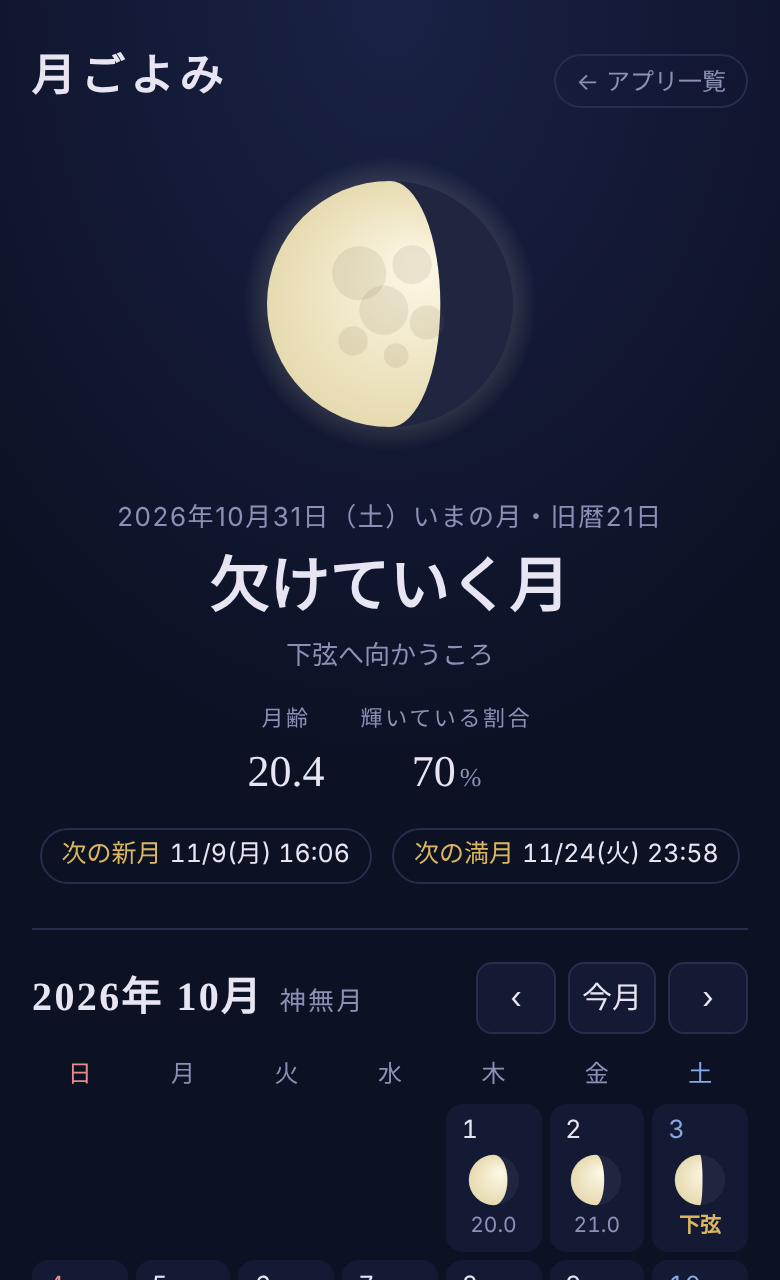
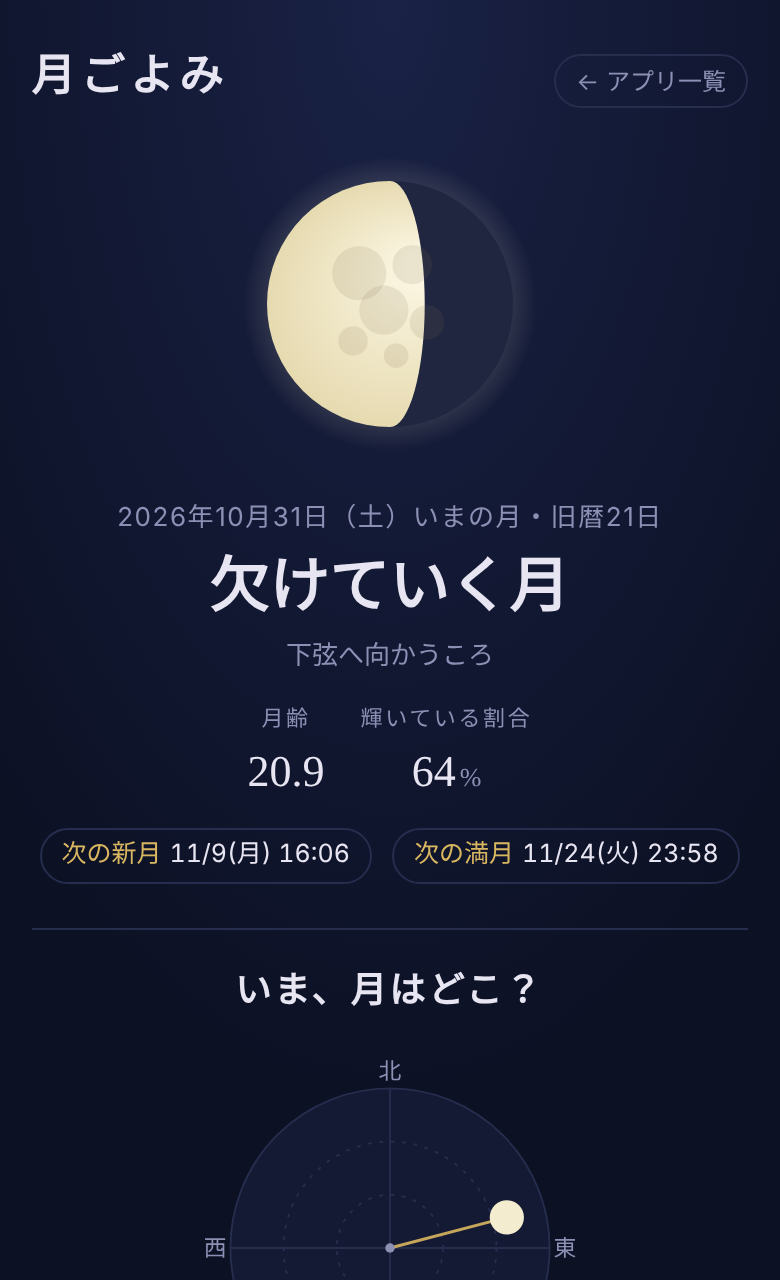
月ごよみ：いまの月の方角・高さと月の出・月の入りを追加
Claude-Session: https://claude.ai/code/session_016FBJxfb2vpesPzRLycQGm6

diff --git a/tsuki-goyomi/index.html b/tsuki-goyomi/index.html
@@ -79,6 +79,24 @@ h1{font-family:var(--display);font-weight:700;font-size:22px;letter-spacing:.12e
 .cell.sel{background:#232b52}
 @media (min-width:560px){.cell canvas{width:40px;height:40px}.cell .d{font-size:13.5px}.cell .age,.cell .ev{font-size:11.5px}}
 .note{font-size:12px;color:var(--mute);line-height:1.7}
+
+/* いまの月の方角 */
+.sky{border-top:1px solid var(--line);padding-top:16px;display:grid;grid-template-columns:auto 1fr;gap:20px;align-items:center}
+.sky h2{grid-column:1/-1;font-family:var(--display);font-size:18px;letter-spacing:.08em;margin:0}
+.sky svg{width:190px;height:190px;display:block}
+.sky .txt{display:flex;flex-direction:column;gap:6px;min-width:0}
+.sky .dir{font-family:var(--display);font-size:28px;font-weight:700;line-height:1.25}
+.sky .sub{font-size:13px;color:var(--mute)}
+.rs{display:flex;gap:8px;flex-wrap:wrap}
+.place{display:flex;gap:8px;align-items:center;flex-wrap:wrap;margin-top:4px}
+.place select,.place button{background:var(--sky-2);color:var(--ink);border:1px solid var(--line);border-radius:8px;height:34px;font:inherit;font-size:13px;padding:0 10px;cursor:pointer}
+.place select:focus-visible,.place button:focus-visible{outline:2px solid var(--gold);outline-offset:2px}
+.place .msg{font-size:11.5px;color:var(--mute);flex-basis:100%}
+@media (max-width:480px){
+  .sky{grid-template-columns:1fr;justify-items:center;text-align:center}
+  .sky .txt{align-items:center}
+  .rs,.place{justify-content:center}
+}
 .home{font-size:12px;color:var(--mute);text-decoration:none;border:1px solid var(--line);border-radius:999px;padding:3px 10px}
 </style>
 </head><body>
@@ -104,6 +122,21 @@ h1{font-family:var(--display);font-weight:700;font-size:22px;letter-spacing:.12e
     </div>
   </section>
 
+  <section class="sky" aria-live="polite">
+    <h2>いま、月はどこ？</h2>
+    <svg id="compass" viewBox="0 0 200 200" role="img" aria-label="月の方角と高さ"></svg>
+    <div class="txt">
+      <div class="dir" id="sDir"></div>
+      <div class="sub" id="sSub"></div>
+      <div class="rs" id="sRS"></div>
+      <div class="place">
+        <select id="city" aria-label="見る場所"></select>
+        <button id="geo">現在地を使う</button>
+        <span class="msg" id="geoMsg"></span>
+      </div>
+    </div>
+  </section>
+
   <section class="cal">
     <div class="calhead">
       <div class="month" id="mLabel"></div>
@@ -114,7 +147,7 @@ h1{font-family:var(--display);font-weight:700;font-size:22px;letter-spacing:.12e
       </div>
     </div>
     <div class="grid" id="grid"></div>
-    <p class="note">日本時間で計算しています。月齢は正午の値です。新月・上弦・満月・下弦はその瞬間をむかえる日に印をつけています。計算はこの端末の中で行っていて、時刻は数分程度ずれることがあります。</p>
+    <p class="note">日本時間で計算しています。月齢は正午の値です。新月・上弦・満月・下弦はその瞬間をむかえる日に印をつけています。月の方角・高さ・月の出入りは、選んだ場所から見た値です。計算はこの端末の中で行っていて、時刻は数分程度ずれることがあります。</p>
   </section>
 </div>
 
@@ -145,6 +178,55 @@ function refine(t,target){for(let i=0;i<8;i++){t-=sgn(elong(t)-target)/12.19*DAY
 function lastNew(ms){let t=refine(ms-elong(ms)/12.19*DAY,0);if(t>ms)t=refine(t-SYN*DAY,0);return t}
 function nextPhase(ms,target){let t=refine(ms+n360(target-elong(ms))/12.19*DAY,target);if(t<=ms)t=refine(t+SYN*DAY,target);return t}
 const illum=E=>(1-Math.cos(E*R))/2;
+
+// ---- 月の方角と高さ（見ている場所から） ----
+const CITIES=[["札幌",43.06,141.35],["仙台",38.27,140.87],["東京",35.68,139.77],["名古屋",35.18,136.91],["大阪",34.69,135.50],["広島",34.39,132.46],["福岡",33.59,130.40],["那覇",26.21,127.68]];
+const DIR16=["北","北北東","北東","東北東","東","東南東","南東","南南東","南","南南西","南西","西南西","西","西北西","北西","北北西"];
+const dirName=az=>DIR16[Math.round(n360(az)/22.5)%16];
+function moonEq(ms){
+  const JD=ms/DAY+2440587.5, T=(JD-2451545)/36525;
+  const M=357.5291092+35999.0502909*T, Lp=218.3164477+481267.88123421*T, D=297.8501921+445267.1114034*T,
+        Mp=134.9633964+477198.8675055*T, F=93.2720950+483202.0175233*T;
+  const s=x=>Math.sin(x*R), c=x=>Math.cos(x*R);
+  const lon=Lp+6.288774*s(Mp)+1.274027*s(2*D-Mp)+0.658314*s(2*D)+0.213618*s(2*Mp)
+    -0.185116*s(M)-0.114332*s(2*F)+0.058793*s(2*D-2*Mp)+0.057066*s(2*D-M-Mp)
+    +0.053322*s(2*D+Mp)+0.045758*s(2*D-M)-0.040923*s(M-Mp)-0.034720*s(D)-0.030383*s(M+Mp)
+    +0.015327*s(2*D-2*F)+0.010980*s(Mp-2*F)+0.010675*s(4*D-Mp)+0.010034*s(3*Mp);
+  const lat=5.128122*s(F)+0.280602*s(Mp+F)+0.277693*s(Mp-F)+0.173237*s(2*D-F)+0.055413*s(2*D-Mp+F)
+    +0.046271*s(2*D-Mp-F)+0.032573*s(2*D+F)+0.017198*s(2*Mp+F)+0.009266*s(2*D+Mp-F)+0.008822*s(2*Mp-F);
+  const dist=385000.56-20905.355*c(Mp)-3699.111*c(2*D-Mp)-2955.968*c(2*D)-569.925*c(2*Mp);
+  const eps=23.439291-0.0130042*T;
+  return{
+    ra:Math.atan2(s(lon)*c(eps)-Math.tan(lat*R)*s(eps),c(lon)),
+    dec:Math.asin(s(lat)*c(eps)+c(lat)*s(eps)*s(lon)),
+    gmst:n360(280.46061837+360.98564736629*(JD-2451545)+0.000387933*T*T),
+    par:Math.asin(6378.14/dist)/R
+  };
+}
+// alt: 見かけの高さ（視差と大気の屈折を補正）, az: 北=0 東=90 南=180 西=270
+function moonAltAz(ms,la,lo){
+  const q=moonEq(ms), H=(q.gmst+lo)*R-q.ra, f=la*R;
+  const geo=Math.asin(Math.sin(f)*Math.sin(q.dec)+Math.cos(f)*Math.cos(q.dec)*Math.cos(H))/R;
+  const az=n360(Math.atan2(Math.sin(H),Math.cos(H)*Math.sin(f)-Math.tan(q.dec)*Math.cos(f))/R+180);
+  let alt=geo-q.par*Math.cos(geo*R);
+  if(alt>-1) alt+=1.02/Math.tan((alt+10.3/(alt+5.11))*R)/60;
+  return{alt,az,geo,h0:0.7275*q.par-0.5667};
+}
+// その日（日本時間0時〜24時）の月の出・月の入り
+function riseSet(y,m,d,la,lo){
+  const s=jstMid(y,m,d), step=10*60e3, f=t=>{const p=moonAltAz(t,la,lo);return p.geo-p.h0};
+  let out={rise:null,set:null}, t0=s, v0=f(t0);
+  for(let t1=s+step;t1<=s+DAY;t1+=step){
+    const v1=f(t1);
+    if((v0<0)!==(v1<0)){
+      let a=t0,b=t1,va=v0;
+      for(let i=0;i<20;i++){const mid=(a+b)/2,vm=f(mid);if((va<0)===(vm<0)){a=mid;va=vm}else b=mid}
+      if(v0<0&&out.rise===null)out.rise=a; else if(v0>=0&&out.set===null)out.set=a;
+    }
+    t0=t1;v0=v1;
+  }
+  return out;
+}
 
 const EV={0:"新月",90:"上弦",180:"満月",270:"下弦"};
 const YOMI={新月:"しんげつ",上弦:"じょうげん",満月:"まんげつ",下弦:"かげん"};
@@ -251,6 +333,64 @@ document.getElementById("prev").onclick=()=>{view.m--;if(view.m<0){view.m=11;vie
 document.getElementById("next").onclick=()=>{view.m++;if(view.m>11){view.m=0;view.y++}renderCal()};
 document.getElementById("thisM").onclick=()=>{view={y:today.y,m:today.m};renderCal()};
 document.getElementById("backToday").onclick=()=>{sel={y:today.y,m:today.m,d:today.d};view={y:today.y,m:today.m};renderHero();renderCal()};
+// ---- 見る場所（都市はこの端末に記憶、現在地は記憶しない） ----
+let place;
+try{const v=localStorage.getItem("tsukigoyomi.city"), i=v===null?2:+v;place={name:CITIES[i]?CITIES[i][0]:"東京",la:(CITIES[i]||CITIES[2])[1],lo:(CITIES[i]||CITIES[2])[2],i:CITIES[i]?i:2}}
+catch(e){place={name:"東京",la:CITIES[2][1],lo:CITIES[2][2],i:2}}
+const citySel=document.getElementById("city");
+citySel.innerHTML=CITIES.map((c,i)=>`<option value="${i}">${c[0]}から見る</option>`).join("")+`<option value="geo" hidden>現在地から見る</option>`;
+citySel.value=String(place.i);
+citySel.onchange=()=>{
+  if(citySel.value==="geo")return;
+  const i=+citySel.value;place={name:CITIES[i][0],la:CITIES[i][1],lo:CITIES[i][2],i};
+  try{localStorage.setItem("tsukigoyomi.city",i)}catch(e){}
+  document.getElementById("geoMsg").textContent="";renderSky();
+};
+document.getElementById("geo").onclick=()=>{
+  const msg=document.getElementById("geoMsg");
+  if(!navigator.geolocation){msg.textContent="この端末では現在地が使えません。都市を選んでください。";return}
+  msg.textContent="現在地を調べています…";
+  navigator.geolocation.getCurrentPosition(p=>{
+    place={name:"現在地",la:p.coords.latitude,lo:p.coords.longitude,i:"geo"};
+    citySel.value="geo";msg.textContent="現在地はこの端末の中で計算に使うだけで、どこにも送りません。";renderSky();
+  },()=>{msg.textContent="現在地を取得できませんでした。都市を選んでください。"},{timeout:10000,maximumAge:600000});
+};
+
+function drawCompass(alt,az){
+  const cx=100,cy=100,r=84,up=alt>0;
+  const rr=up?r*(90-alt)/90:r, x=cx+rr*Math.sin(az*R), y=cy-rr*Math.cos(az*R);
+  const lab=[["北",100,11],["東",192,104],["南",100,197],["西",8,104]].map(([t,x,y])=>`<text x="${x}" y="${y}" text-anchor="middle" font-size="12" fill="${t==="南"?"#d9b660":"#8c90b4"}">${t}</text>`).join("");
+  document.getElementById("compass").innerHTML=`
+    <circle cx="100" cy="100" r="${r}" fill="#141a33" stroke="#262d4d"/>
+    <circle cx="100" cy="100" r="${r*2/3}" fill="none" stroke="#262d4d" stroke-dasharray="2 4"/>
+    <circle cx="100" cy="100" r="${r/3}" fill="none" stroke="#262d4d" stroke-dasharray="2 4"/>
+    <line x1="100" y1="${100-r}" x2="100" y2="${100+r}" stroke="#262d4d"/><line x1="${100-r}" y1="100" x2="${100+r}" y2="100" stroke="#262d4d"/>
+    ${lab}
+    <line x1="100" y1="100" x2="${x}" y2="${y}" stroke="#d9b660" stroke-width="1.5" stroke-dasharray="${up?"0":"3 3"}" opacity="${up?.9:.4}"/>
+    <circle cx="${x}" cy="${y}" r="9" fill="#f4eccf" opacity="${up?1:.35}"/>
+    <circle cx="100" cy="100" r="2.5" fill="#8c90b4"/>`;
+}
+function renderSky(){
+  const t=Date.now(), p=moonAltAz(t,place.la,place.lo), up=p.alt>0;
+  drawCompass(p.alt,p.az);
+  const tp=parts(t), hm=`${tp.h}:${String(tp.mi).padStart(2,"0")}`;
+  document.getElementById("sDir").textContent=up?`${dirName(p.az)}の空・高さ${Math.round(p.alt)}°`:"いまは地平線の下";
+  let sub=`${place.name}から見た ${hm} の月。`;
+  if(up)sub+=p.alt<15?"低いので、建物のない方を探してみて。":p.alt>60?"ほぼ頭の上です。":"";
+  else{
+    const tom=parts(t+DAY);
+    const rs=[riseSet(tp.y,tp.m,tp.d,place.la,place.lo).rise,riseSet(tom.y,tom.m,tom.d,place.la,place.lo).rise].filter(x=>x&&x>t)[0];
+    if(rs){const q=moonAltAz(rs,place.la,place.lo);sub+=`次は ${fmtT(rs)} に${dirName(q.az)}から昇ります。`}
+  }
+  document.getElementById("sSub").textContent=sub;
+  const r=riseSet(sel.y,sel.m,sel.d,place.la,place.lo), f=ms=>{const q=parts(ms);return `${q.h}:${String(q.mi).padStart(2,"0")}`};
+  const lbl=isToday(sel)?"今日":`${sel.m+1}/${sel.d}`;
+  document.getElementById("sRS").innerHTML=
+    `<span class="chip"><b>${lbl}の月の出</b>${r.rise?f(r.rise):"なし"}</span><span class="chip"><b>月の入り</b>${r.set?f(r.set):"なし"}</span>`;
+}
+const _rh=renderHero;renderHero=function(){_rh();renderSky()};
+setInterval(renderSky,60000);
+
 let rt;window.addEventListener("resize",()=>{clearTimeout(rt);rt=setTimeout(()=>{renderHero();renderCal()},200)});
 renderHero();renderCal();
 })();
